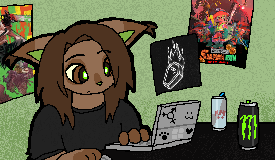
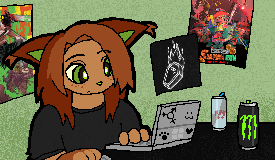
sitebox, 2023 art

Changed region(s): [[0.0291, 0.125, 0.5818, 0.7812], [0.1745, 0.9062, 0.3782, 1.0], [0.4364, 0.8125, 0.5527, 0.9062]]

diff --git a/art.lynx.fail/gallery/index.html b/art.lynx.fail/gallery/index.html
@@ -608,6 +608,153 @@
           </div>
         </div>
 
+        <div class="item crop" data-tags="traditional furry gift 2023">
+          <img
+            class="item-img"
+            src="./2023/12_19_2023_leafeon.jpg"
+            alt="a clay leafeon sleeping"
+            loading="lazy"
+          />
+          <div class="item-info">
+            <div class="item-title">leafeon</div>
+            <div class="item-desc">
+              this was a christmas gift im pretty sure
+            </div>
+            <div class="item-date">12/19/2023</div>
+          </div>
+        </div>
+
+        <div class="item crop" data-tags="traditional furry 2023">
+          <img
+            class="item-img"
+            src="./2023/11_21_2023_clay.jpg"
+            alt="two felt and clay dolls. on the left, a zombie rabbit. on the right, a calico cat"
+            loading="lazy"
+          />
+          <div class="item-info">
+            <div class="item-title">dolls</div>
+            <div class="item-desc">
+              made some art dolls with my friend! he did the one on the left..
+              literally so cool.
+            </div>
+            <div class="item-date">11/21/2023</div>
+          </div>
+        </div>
+
+        <div class="item crop" data-tags="traditional furry sona 2023">
+          <img
+            class="item-img"
+            src="./2023/11_09_2023_gettingready.jpg"
+            alt="an alicorn kitty putting on a dangling star earring, wearing a bunch of kandi bracelets."
+            loading="lazy"
+          />
+          <div class="item-info">
+            <div class="item-title">getting ready 4 the rave</div>
+            <div class="item-desc">
+              a little adventure into multimedia art. this was really fun to
+              make, and i want to do another painting like this eventually.
+            </div>
+            <div class="item-date">11/09/2023</div>
+          </div>
+        </div>
+
+        <div class="item crop" data-tags="digital furry sona 2023">
+          <img
+            class="item-img"
+            src="./2023/09_14_2023_wow.gif"
+            alt="an animation of a cat with a unicorn horn, eyes sparkling in awe"
+            loading="lazy"
+          />
+          <div class="item-info">
+            <div class="item-title">ibis animation test</div>
+            <div class="item-desc">a little doodle</div>
+            <div class="item-date">9/14/2023</div>
+          </div>
+        </div>
+
+        <div
+          class="item crop"
+          data-tags="traditional furry sona class_projects 2023"
+        >
+          <img
+            class="item-img"
+            src="./2023/08_23_2023_selfpurrtrait.png"
+            alt="two sides of the self: on the left, a monochrome colored human. on the right, a colorful anthro cat smiles and waves."
+            loading="lazy"
+          />
+          <div class="item-info">
+            <div class="item-title">self portrait</div>
+            <div class="item-desc">
+              an early assignment in my school sketchbook, the prompt was a self
+              portrait. its meant to show how i feel better represented as my
+              (at the time) sona, rather than my human self.
+            </div>
+            <div class="item-date">8/23/2023</div>
+          </div>
+        </div>
+
+        <div class="item crop" data-tags="digital furry 2023">
+          <img
+            class="item-img"
+            src="./2023/08_07_2023_love.png"
+            alt="two butterfly cats clasping hands. one is rainbow, the other is pink, white, and blue."
+            loading="lazy"
+          />
+          <div class="item-info">
+            <div class="item-title">fly on the wings of love!</div>
+            <div class="item-desc">gay/queer and trans joy</div>
+            <div class="item-date">8/07/2023</div>
+          </div>
+        </div>
+
+        <div class="item crop" data-tags="traditional non-furry 2023">
+          <img
+            class="item-img"
+            src="./2023/07_21_2023_flamewingman.jpg"
+            alt="an airbrush shirt of the yu-gi-oh monster, flame wingman"
+            loading="lazy"
+          />
+          <div class="item-info">
+            <div class="item-title">flame wingman</div>
+            <div class="item-desc">
+              did this during my free time at the airbrush stand i worked at. i
+              was obsessed with yugioh GX at the time x3
+            </div>
+            <div class="item-date">7/21/2023</div>
+          </div>
+        </div>
+
+        <div class="item crop" data-tags="traditional non-furry 2023">
+          <img
+            class="item-img"
+            src="./2023/07_18_2023_charizard.jpg"
+            alt="an airbrush shirt of the pokemon charizard"
+            loading="lazy"
+          />
+          <div class="item-info">
+            <div class="item-title">charizard</div>
+            <div class="item-desc">
+              worked an an airbrush shirt stand for a while. i can't remember if
+              this was for a customer or not...
+            </div>
+            <div class="item-date">7/18/2023</div>
+          </div>
+        </div>
+
+        <div class="item crop" data-tags="digital furry gift 2023">
+          <img
+            class="item-img"
+            src="./2023/07_17_2023_rave.png"
+            alt="two sparklefurs at a rave"
+            loading="lazy"
+          />
+          <div class="item-info">
+            <div class="item-title">ravingg</div>
+            <div class="item-desc">artfight attack!</div>
+            <div class="item-date">7/17/2023</div>
+          </div>
+        </div>
+
         <!-- gallery end-->
       </div>
     </main>

diff --git a/lynx.fail/elements.css b/lynx.fail/elements.css
@@ -82,7 +82,7 @@
 .post-box .post-date {
   display: inline-block;
   font-weight: bold;
-  color: #c26516;
+  color: #7ead41;
 }
 .post-box .post-author::after {
   content: "";
@@ -97,7 +97,7 @@
   display: none;
 }
 .post-box .post-title {
-  color: #7ead41;
+  color: #c26516;
   text-shadow: 0.1rem 0.2rem black;
   font-family: Arial, Helvetica, sans-serif;
 }
